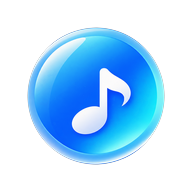
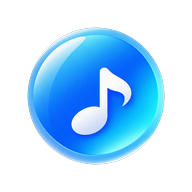
deploy: 同步壳 PWA 源码（2026-11-18 13:58）

diff --git a/sw.js b/sw.js
@@ -1,6 +1,6 @@
 // 最小 Service Worker：仅为满足 Chrome PWA 安装条件（需注册 + fetch handler）。
 // 壳页自身离线兜底；Tabliss iframe 的请求照常走网络，不缓存。
-const SHELL = 'tabliss-shell-v6';   // v6：正圆蒙版只保留球体本体，光晕全部去除（任务栏纯圆）
+const SHELL = 'tabliss-shell-v7';   // v7：蒙版半径收紧到球体实边（404<411），去除圆内缘光晕过渡残留
 const SHELL_FILES = ['index.html', 'pwa.json', 'icon-192.png', 'icon-512.png'];
 
 self.addEventListener('install', (e) => {
